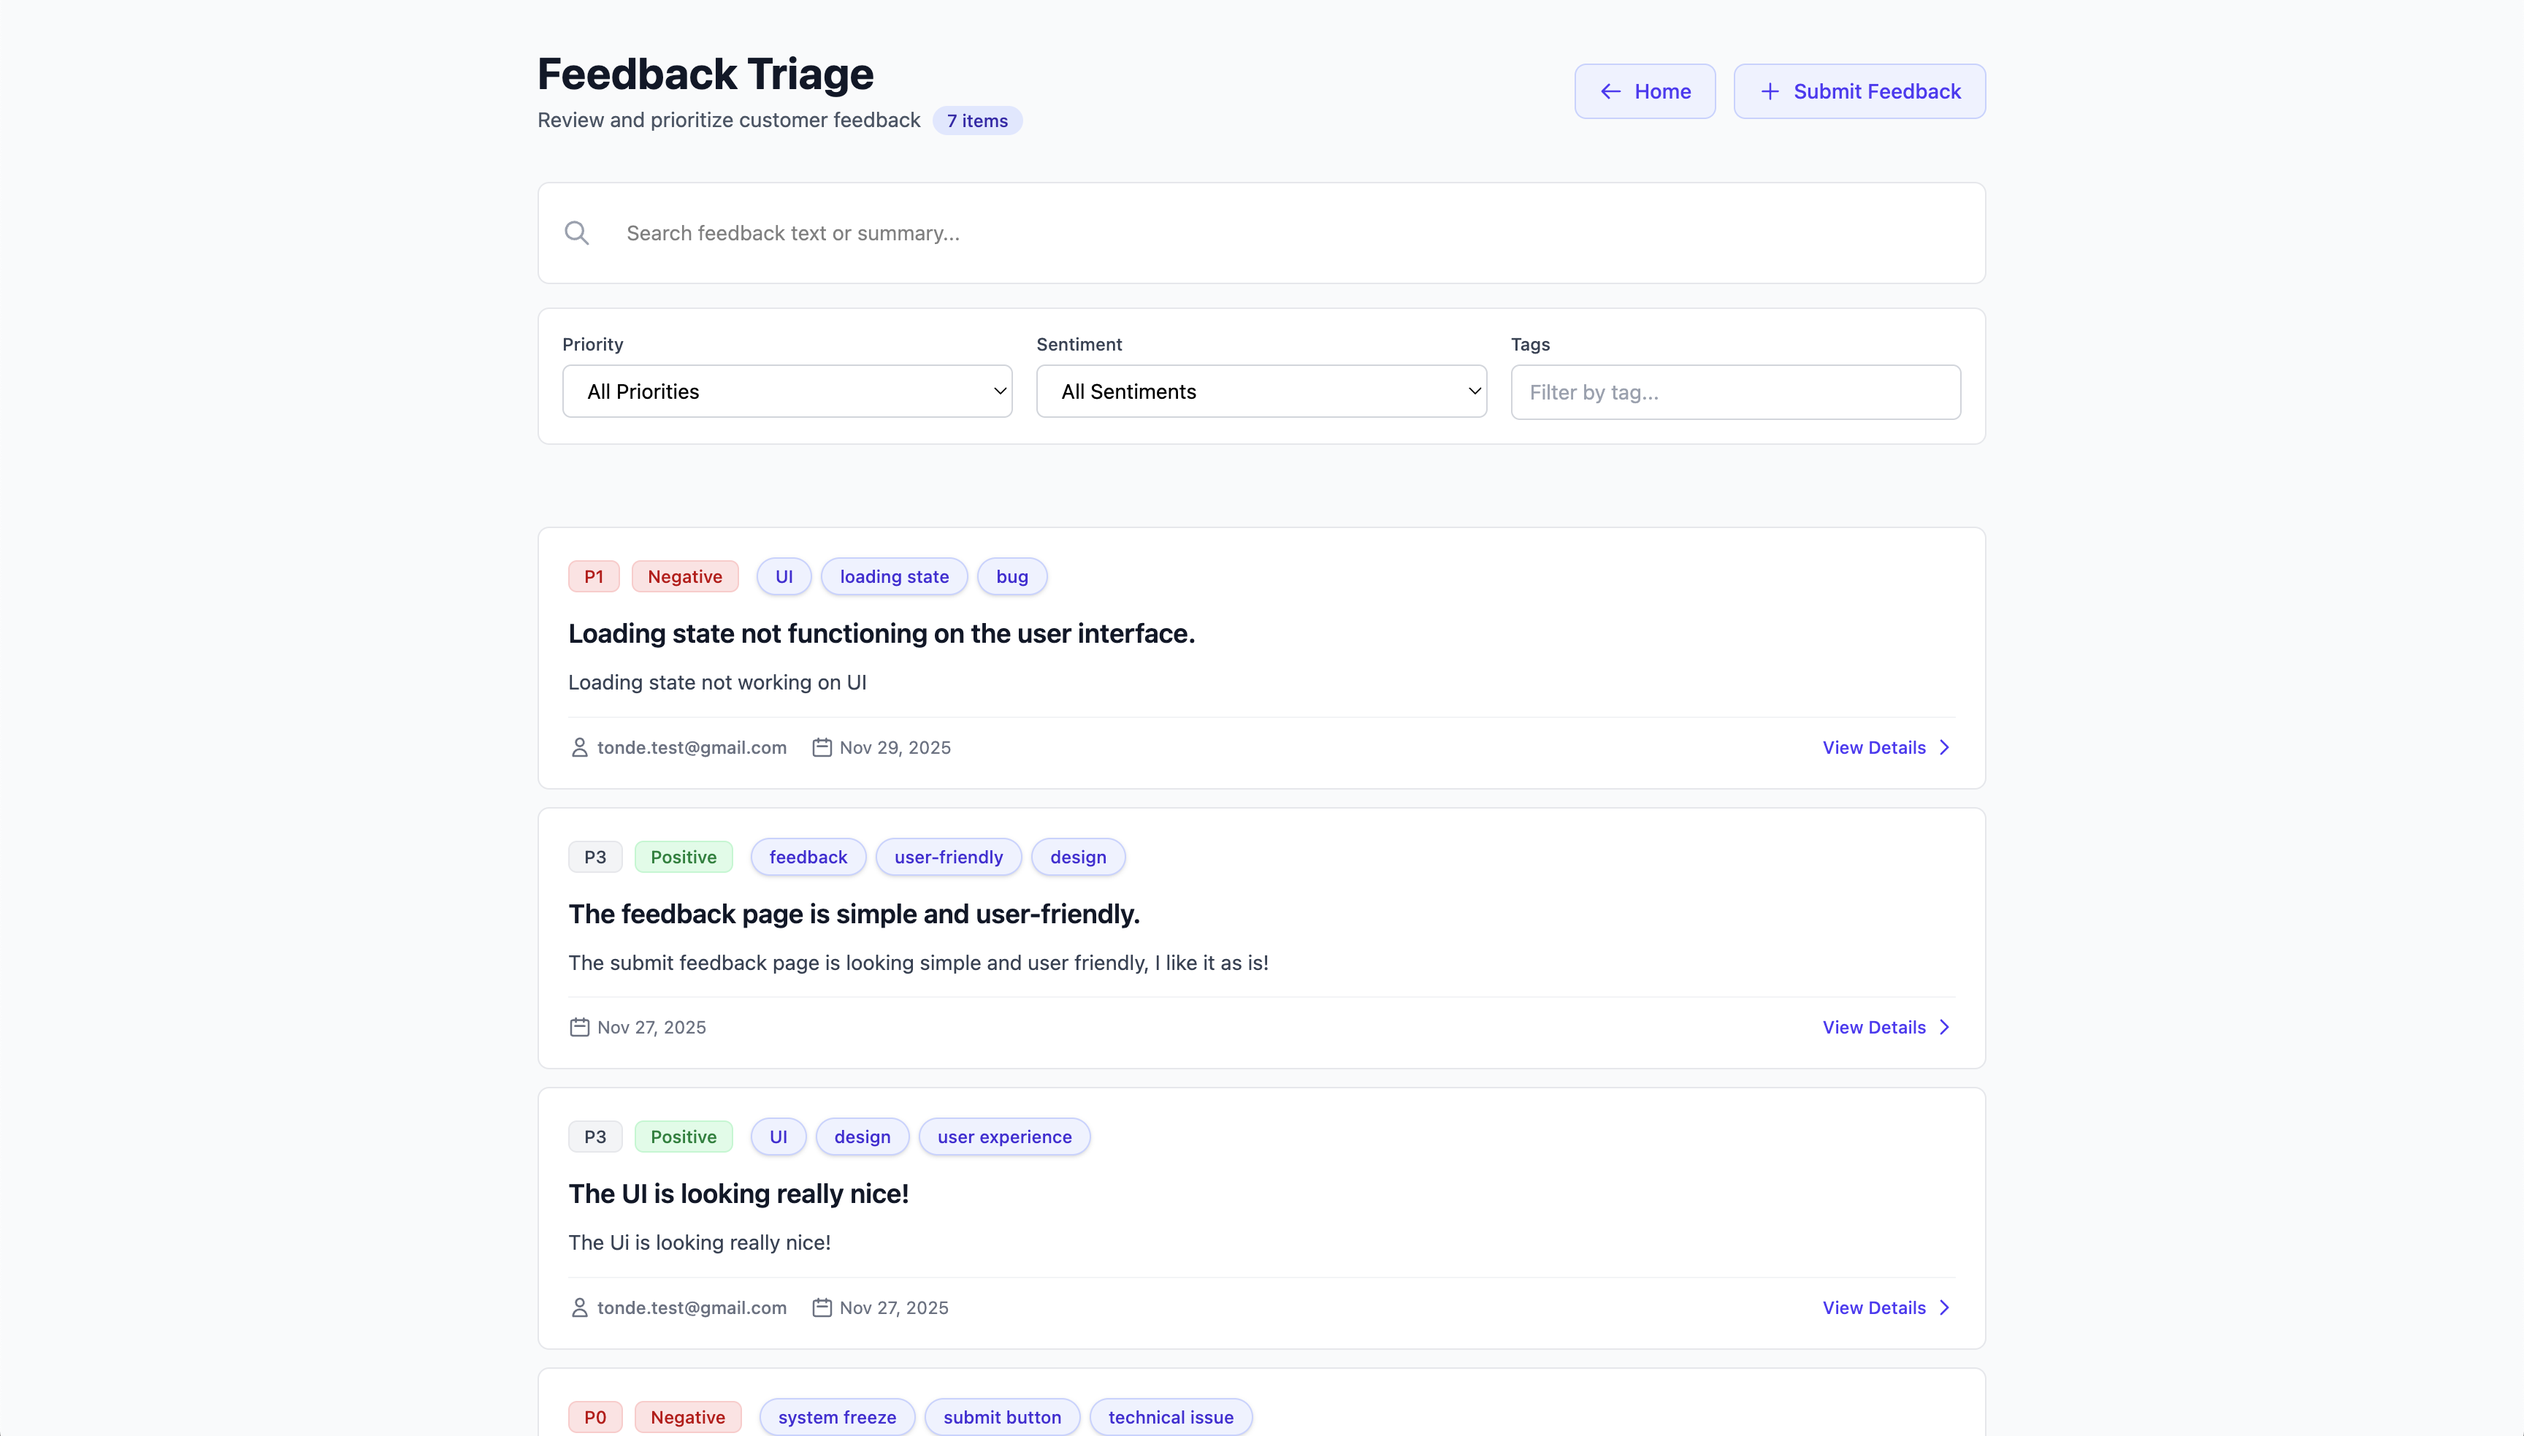
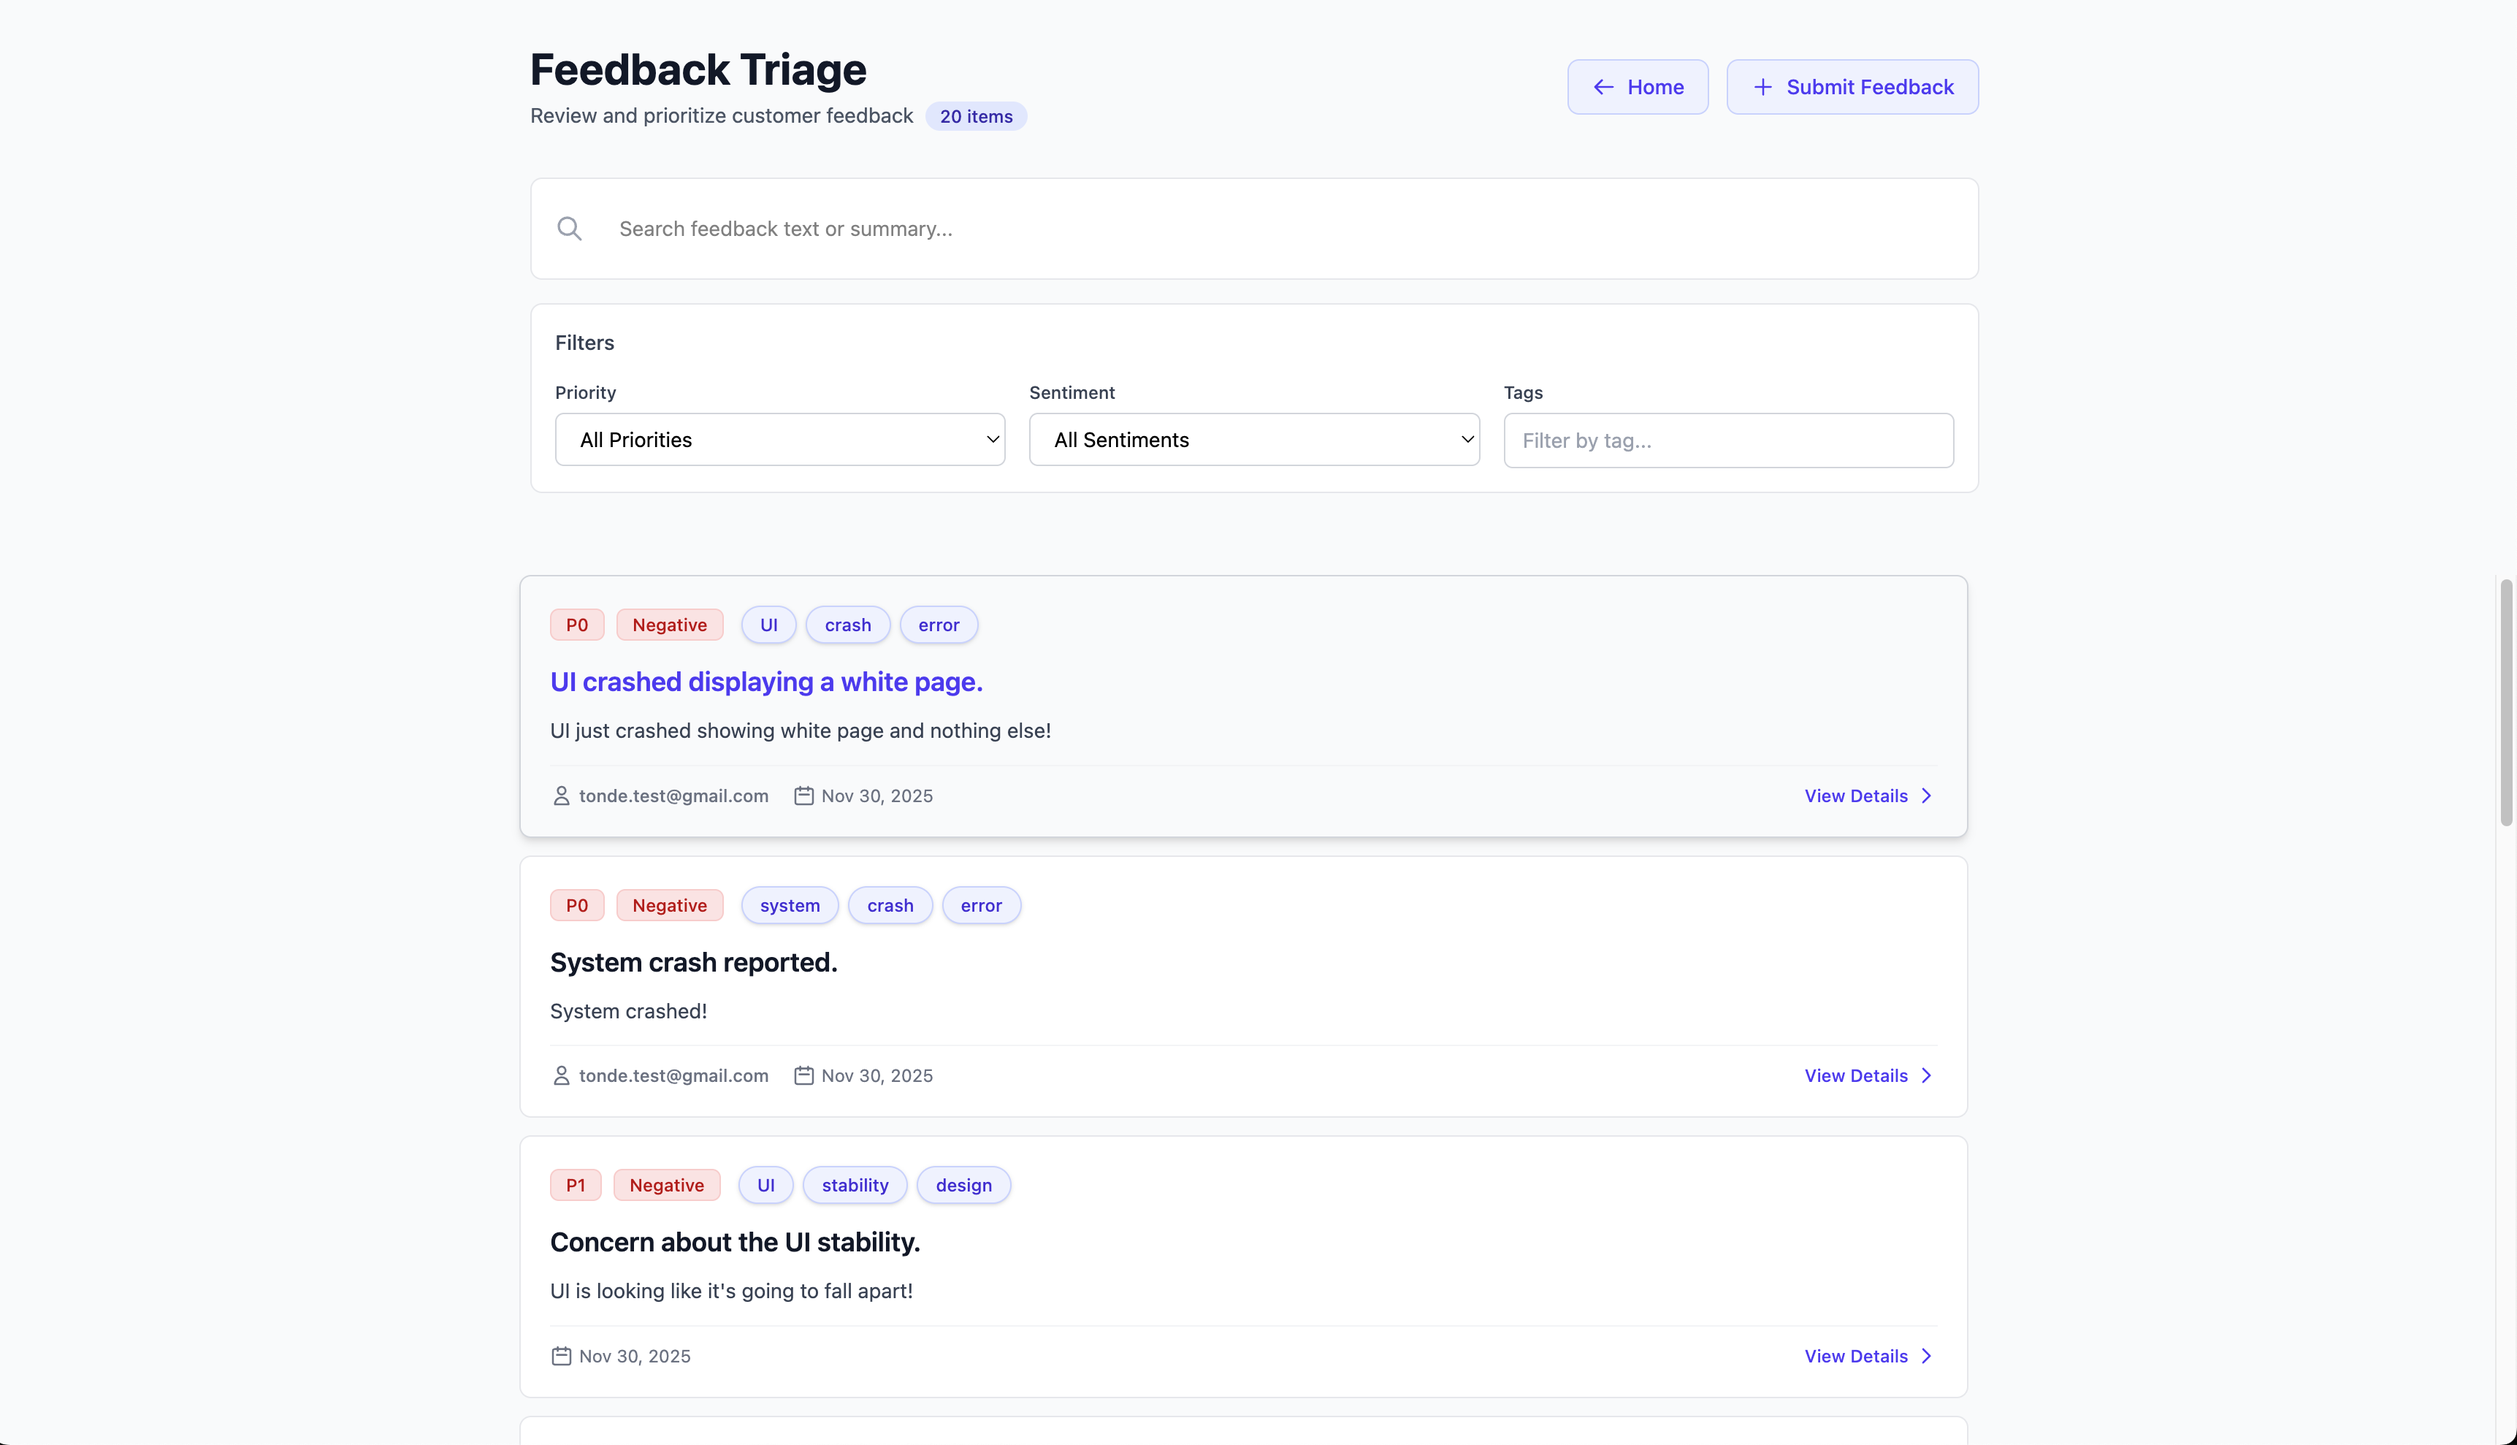
feat: enhance list feedback page

diff --git a/src/pages/list.tsx b/src/pages/list.tsx
@@ -190,9 +190,9 @@ const FeedbackList: NextPage = () => {
 
         {/* Filters */}
         <div className="bg-white border border-gray-200 rounded-lg p-4 mb-6">
-          <div className="grid grid-cols-1 md:grid-cols-3 gap-4">
+          <div className="flex flex-col md:flex-row md:items-end gap-4">
             {/* Priority Filter */}
-            <div>
+            <div className="flex-1">
               <label htmlFor="priority-filter" className="block text-xs font-medium text-gray-700 mb-1.5">
                 Priority
               </label>
@@ -214,7 +214,7 @@ const FeedbackList: NextPage = () => {
             </div>
 
             {/* Sentiment Filter */}
-            <div>
+            <div className="flex-1">
               <label htmlFor="sentiment-filter" className="block text-xs font-medium text-gray-700 mb-1.5">
                 Sentiment
               </label>
@@ -235,7 +235,7 @@ const FeedbackList: NextPage = () => {
             </div>
 
             {/* Tag Filter */}
-            <div>
+            <div className="flex-1">
               <label htmlFor="tag-filter" className="block text-xs font-medium text-gray-700 mb-1.5">
                 Tags
               </label>
@@ -251,6 +251,21 @@ const FeedbackList: NextPage = () => {
                 className="w-full px-3 py-2 text-sm border border-gray-300 rounded-md focus:ring-2 focus:ring-indigo-500 focus:border-indigo-500 placeholder-gray-400"
               />
             </div>
+
+            {/* Clear Filters Button */}
+            {(filters.priority || filters.sentiment || filters.tag) && (
+              <div className="flex-shrink-0">
+                <button
+                  onClick={() => {
+                    setFilters({ ...filters, priority: '', sentiment: '', tag: '' })
+                    setPage(1)
+                  }}
+                  className="w-full md:w-auto px-4 py-2 text-sm font-medium text-indigo-600 bg-indigo-50 border border-indigo-200 rounded-md hover:bg-indigo-100 hover:border-indigo-300 transition-colors"
+                >
+                  Clear all filters
+                </button>
+              </div>
+            )}
           </div>
         </div>
       </div>
